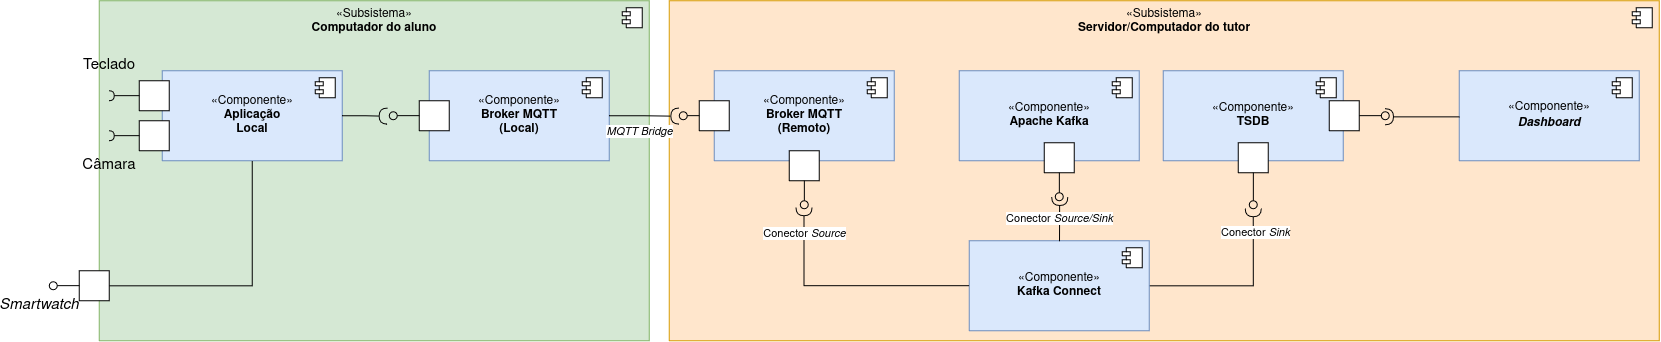
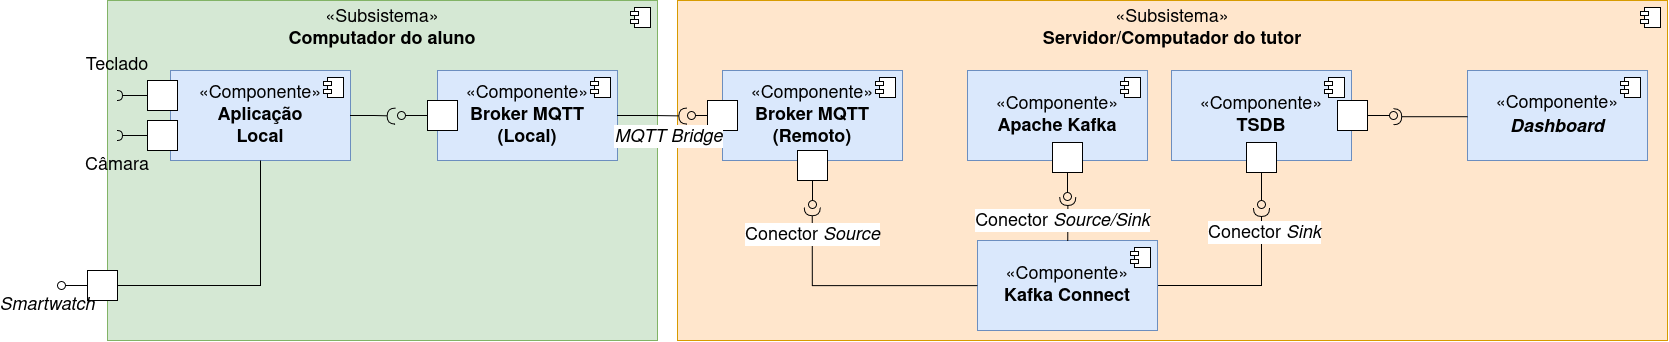
architecture done

diff --git a/chapters/chapter-arquitecture.tex b/chapters/chapter-arquitecture.tex
@@ -7,17 +7,17 @@ Este capítulo descreve o cenário representativo (monitorização de um aluno d
 
 \section{Cenário de Referência}\label{sec:scenario_arquitecture}
 
-Como referido na Secção~\ref{sec:scenario_introduction}, o cenário de referência adotado para orientar o desenvolvimento do trabalho é a monitorização de um aluno durante uma sessão de tutoria individual, enquanto este realiza tarefas ou exercícios no computador (ou seja, durante a interação com o computador).
+O cenário de referência é a monitorização de um aluno durante uma sessão de tutoria individual, enquanto este realiza tarefas ou exercícios no computador (ou seja, durante a interação com o computador).
 
 Os atores principais neste cenário são o próprio aluno, que será monitorizado e o tutor, que tem interesse em visualizar as métricas que resultam dessa monitorização.
 Apesar do cenário referir que apenas um aluno será monitorizado por sessão, o trabalho tem em consideração que diferentes alunos poderão ser lecionados em cada sessão e cada aluno poderá ter mais que uma sessão com o mesmo tutor.
 
-Em termos de fontes de dados para monitorização, foram escolhidos o teclado (caracteres por minuto) e câmara (orientação facial e \ac{EAR}) com interfaces do computador e um \textit{smartwatch} (\ac{BPM}) como fonte de dados externa.
+Em termos de fontes de dados para monitorização, foram escolhidos o teclado (caracteres por minuto e \textit{deletes} por minuto) e câmara (orientação facial e \ac{EAR}) com interfaces do computador e um \textit{smartwatch} (\ac{BPM}) como fonte de dados externa.
 Estas métricas serão disponibilizados através de um \textit{dashboard}, integrando dados em tempo real e históricos para ajudar o tutor a avaliar a qualidade do ensino não só da sessão atual, mas também ao longo de várias sessões.
 
 \section{Mapeamento do Cenário com base na \ac{UDI 2.0}}
 
-De modo a orientar a criação de uma arquitetura lógica, decidi utilizar como base a \ac{UDI 2.0}, mapeando este cenário nos blocos lógicos e fluxos desta arquitetura genérica.
+De modo a orientar a criação de uma arquitetura lógica, decidi utilizar como base a \ac{UDI 2.0}, mapeando este cenário nos blocos lógicos e fluxos desta arquitetura genérica (Figura~\ref{fig:sys_arq_concept}).
 
 Em primeiro lugar, as fontes de dados principais são as descritas anteriormente: o teclado, que produz um evento sempre que uma tecla é premida (sendo enviado o tipo de tecla premida), a câmara que envia métricas referentes à orientação facial e à abertura dos olhos e um \textit{smartwatch}, que fornece dados referentes à frequência cardíaca (\ac{BPM}).
 
@@ -27,11 +27,18 @@ No contexto da \ac{UDI 2.0}, a ingestão contínua é mapeada no bloco lógico \
 Em termos de persistência, apesar de algumas ferramentas de ingestão contínua (particularmente, as baseadas em \textit{logs}), manterem um registo do histórico de mensagens, não é considerado viável utilizar estas ferramentas como fontes de dados para visualização, uma vez que estas ferramentas geralmente não dispõem de mecanismos eficientes de filtragem com base no conteúdo (por exemplo, para visualizar o \ac{BPM} de um determinado aluno ao longo da sessão).
 Por esta razão, torna-se necessário utilizar uma fonte de persistência separada que seja otimizada para análise em tempo real, ou seja, uma \textit{Real-time Analytics Database}.
 
-Em termos de processamento e transformação, não foram selecionados blocos lógicos para estas camadas, uma vez que não está planeado o desenvolvimento de um modelo de inteligência artificial (que justificaria a transformação) nem se consideram necessário processamento adicional antes da inserção (o que justificaria \textit{Stream Processing}).
+Em termos de processamento e transformação, não foram selecionados blocos lógicos para estas camadas, uma vez que não está planeado o desenvolvimento de um modelo de inteligência artificial (que justificaria a transformação) nem se considera necessário processamento adicional antes da inserção (o que justificaria \textit{Stream Processing}).
 
 Finalmente, em termos de visualização, como neste cenário o único requisito para a interface do tutor é permitir observar as métricas de um aluno e a sua evolução, sendo a comunicação entre ambos realizada através das ferramentas habituais, foi considerado suficiente o uso de um \textit{Dashboard} para a visualização dos dados.
 
 Em suma, podemos estabelecer o seguinte fluxo: os dados são recolhidos e pré-processados na fonte, transportados através de uma ferramenta de \textit{Event Streaming}, inseridos numa \textit{Real-time Analysis Database} e finalmente visualizados pelo tutor através de um \textit{Dashboard}.
+
+\begin{figure}[h]
+    \centering
+    \includegraphics[width=\linewidth]{figs/diagram_concept}
+    \caption{Arquitetura enquadrada na \ac{UDI 2.0}. Adaptado de~\cite{UDI}}
+    \label{fig:sys_arq_concept}
+\end{figure}
 
 
 \section{Requisitos}
@@ -60,15 +67,25 @@ Após o estabelecimento dos blocos lógicos do sistema, torna-se necessário esc
 Em primeiro lugar, para a concretização do \textit{Event Streaming}, foi escolhido o Apache Kafka, não só pela sua escalabilidade e resiliência a falhas~\cite{Kafka2011}, mas também pelo facto que, através do Kafka Connect, é possível comunicar com um elevado número de outros sistemas~\cite{kafka_connect_docs}.
 
 A seguir, como a maioria das fontes de dados não consegue comunicar diretamente com o Kafka, torna-se necessário o uso de uma aplicação que corra no computador do aluno para coordenar a recolha destes dados, permitindo assim também o pré-processamento de dados na própria fonte.
-De modo a evitar a perda de dados após uma interrupção temporária de conexão, foi também explorado um mecanismo de redirecionamento assíncrono utilizando \ac{MQTT} \textit{Bridge}, um método que permite o redirecionamento assíncrono e automático entre dois \textit{message brokers} \ac{MQTT} - um local e um remoto - sem infringir nas garantias de entrega.
+De modo a evitar a perda de dados após uma interrupção temporária de conexão, foi também explorado um mecanismo de redirecionamento assíncrono utilizando \ac{MQTT} \textit{Bridge}~\cite{Cope2024}, um \textit{feature} dos \textit{brokers} \ac{MQTT} que permite o redirecionamento assíncrono e automático entre dois \textit{message brokers} \ac{MQTT} - um local e um remoto - sem infringir nas garantias de entrega.
 Para além de explorar este mecanismo de redirecionamento contínuo, o \ac{MQTT} foi também escolhido por ser um protocolo suficientemente leve~\cite{amqp_mqtt_definitions} para não impactar visivelmente a \textit{performance} do computador do aluno.
 
 Em termos de \textit{Real-Time Analytics Database}, foi escolhido a utilização de uma \ac{TSDB} (sendo a implementação específica de \ac{TSDB} comparativamente menos relevante).
-Esta escolha baseia-se principalmente em duas razões: como a análise esperada baseia-se em séries temporais, o principal critério de pesquisa será o tempo (seguido do utilizador e finalmente do sensor e métrica), o que favorece a escolha de uma \ac{TSDB}, que são especificamente otimizadas para \textit{queries} temporais.
-Adicionalmente, apesar de uma base de dados \ac{OLAP} ser possivelmente uma escolha mais adequada para um volume elevado de registos (milhões ou biliões)~\cite{Brown2026}, a análise prevista para este cenário foca-se maioritariamente na análise por aluno, logo, o volume de dados previsto não justifica a adoção de uma base de dados \ac{OLAP}.
+Esta escolha baseou-se principalmente no facto de que a análise esperada baseia-se em séries temporais, logo, o principal critério de pesquisa e ordenação será o tempo (seguido do utilizador e finalmente do sensor e métrica).
+Por esta razão, torna-se natural escolher uma \ac{TSDB}, uma vez que estas são otimizadas especificamente para este tipo de \textit{queries}.
 
 Finalmente, a comunicação entre estes três componentes - \textit{broker} remoto, Kafka e \ac{TSDB} - será assegurada através de dois conectores de Kafka Connect: um conector \textit{source} para consumir os dados do \textit{broker} local e um conector \textit{sink} para inserir estes dados na \ac{TSDB}.
 A escolha do Kafka Connect permite não só explorar tecnologias já existentes e as suas vantagens e limitações - ao contrário de um \textit{worker} criado de raiz - mas também porque o uso de conectores introduz uma camada de abstração que separa a configuração do fluxo de dados da lógica de conversão específica a cada ferramenta, facilitando assim a substituição de componentes.
+
+A arquitetura resultante desta integração pode ser observada na Figura~\ref{fig:sys_arq_technologies}.
+
+\begin{figure}[h]
+    \centering
+    \includegraphics[width=\linewidth]{figs/component_diagram_technology.png}
+    \caption{Diagrama de componentes do sistema}
+    \label{fig:sys_arq_technologies}
+\end{figure}
+
 
 \subsection{Fontes de Dados Escolhidas}
 
@@ -79,12 +96,56 @@ Como o propósito principal deste trabalho não é o desenvolvimento de uma solu
     \item Finalmente, o teclado produz dados referentes à dinâmica de interação e é uma das únicas fontes de dados consideradas que produz dados com base em eventos e não através de amostragem, sendo a frequência de envio variável e dependente da velocidade de digitação do próprio indivíduo.
 \end{itemize}
 
-\begin{figure}[h]
+As especificações técnicas dos dispositivos e os respetivos parâmetros de aquisição utilizados na implementação do protótipo encontram-se sintetizados na Tabela~\ref{tab:fontes_dados_specs}.
+
+\begin{table}[h]
     \centering
-    \includegraphics[width=\linewidth]{figs/component_diagram_technology.png}
-    \caption{Diagrama de componentes do sistema}
-    \label{fig:sys_arq_technologies}
+    \begin{threeparttable}
+        \caption{Especificações técnicas das fontes de dados.}
+        \label{tab:fontes_dados_specs}
+        \begin{tabularx}{\linewidth}{l X X X}
+            \toprule
+            \textbf{Dispositivo} & \textbf{Modelo/Origem} & \textbf{Tipo / Dados Capturados} & \textbf{Frequência / Resolução} \\ \hline
+            \midrule
+                Teclado & Tecware Phantom 87-key & Tipo de teclas premido & Variável\tnote{1} \\
+                Câmara & Logitech C720 & Imagens (\textit{frames}) & 720p a 30 FPS \\
+                Smartwatch & Xiaomi Watch 2 & \ac{BPM} & 1Hz\tnote{2} (estimado empiricamente) \\
+            \bottomrule
+        \end{tabularx}
+        \begin{tablenotes}
+            \small
+            \item[1] É enviado um evento por tecla premida, por isso a frequência depende da velocidade de digitação do aluno. A frequência máxima é de 1000Hz~\cite{keyboard_photo}.
+            \item[2] Devido a limitações com o \textit{StateFlow} em Kotlin, é apenas enviado um novo registo quando o valor de \ac{BPM} se altera.
+        \end{tablenotes}
+    \end{threeparttable}
+\end{table}
+
+\begin{figure}[htbp]
+    \centering
+    \begin{subfigure}[b]{0.30\textwidth}
+        \centering
+        \includegraphics[width=\textwidth]{figs/hardware/keyboard}
+        \caption{Teclado Tecware Phantom~\cite{keyboard_photo}}
+        \label{fig:hw_teclado}
+    \end{subfigure}
+    \hfill
+    \begin{subfigure}[b]{0.30\textwidth}
+        \centering
+        \includegraphics[width=\textwidth]{figs/hardware/camera}
+        \caption{Câmara Logitech C720~\cite{camera_photo}}
+        \label{fig:hw_camara}
+    \end{subfigure}
+    \hfill
+    \begin{subfigure}[b]{0.30\textwidth}
+        \centering
+        \includegraphics[width=\textwidth]{figs/hardware/smartwatch}
+        \caption{Xiaomi Watch 2~\cite{smartwatch_photo}}
+        \label{fig:hw_watch}
+    \end{subfigure}
+    \caption{Dispositivos de hardware utilizados como fontes de dados no sistema}
+    \label{fig:fontes_hardware}
 \end{figure}
+
 
 \subsection{Fluxo de Dados}
 \label{sec:flow_technologies}
@@ -106,7 +167,7 @@ Como o propósito principal deste trabalho não é o desenvolvimento de uma solu
 
 \begin{figure}[h]
     \centering
-    \includegraphics[width=\linewidth]{figs/end2end_difficulties.png}
+    \includegraphics[width=\linewidth]{figs/end_2_end_difficulties.png}
     \caption{Diagrama de sequência (cenário de dificuldade com tarefa)}
     \label{fig:end2end_technology}
 \end{figure}

diff --git a/chapters/chapter-state-of-art.tex b/chapters/chapter-state-of-art.tex
@@ -214,7 +214,7 @@ Como o foco deste trabalho é o \textit{streaming} e não a recolha de dados em 
 \begin{figure}[h]
     \centering
     \includegraphics[width=\linewidth]{figs/udi_relevant}
-    \caption{Componentes Relevantes da \ac{UDI 2.0}~\cite{UDI}}
+    \caption{Componentes Relevantes da \ac{UDI 2.0}. Adaptado de~\cite{UDI}}
     \label{fig:udi_parcial}
 \end{figure}
 

diff --git a/chapters/chapter-results.tex b/chapters/chapter-results.tex
@@ -313,6 +313,8 @@ Apesar de se tratar de uma simulação e não um teste em ambiente real, consegu
 
 \section{Discussão}
 
+%TODO: deixa claro que podemos concluir que os objetivos secundários foram cumpridos mesmo apenas com analítico
+
 \subsection{Agnosticismo no Servidor}
 \label{sec:discussion_agnostic}
 
